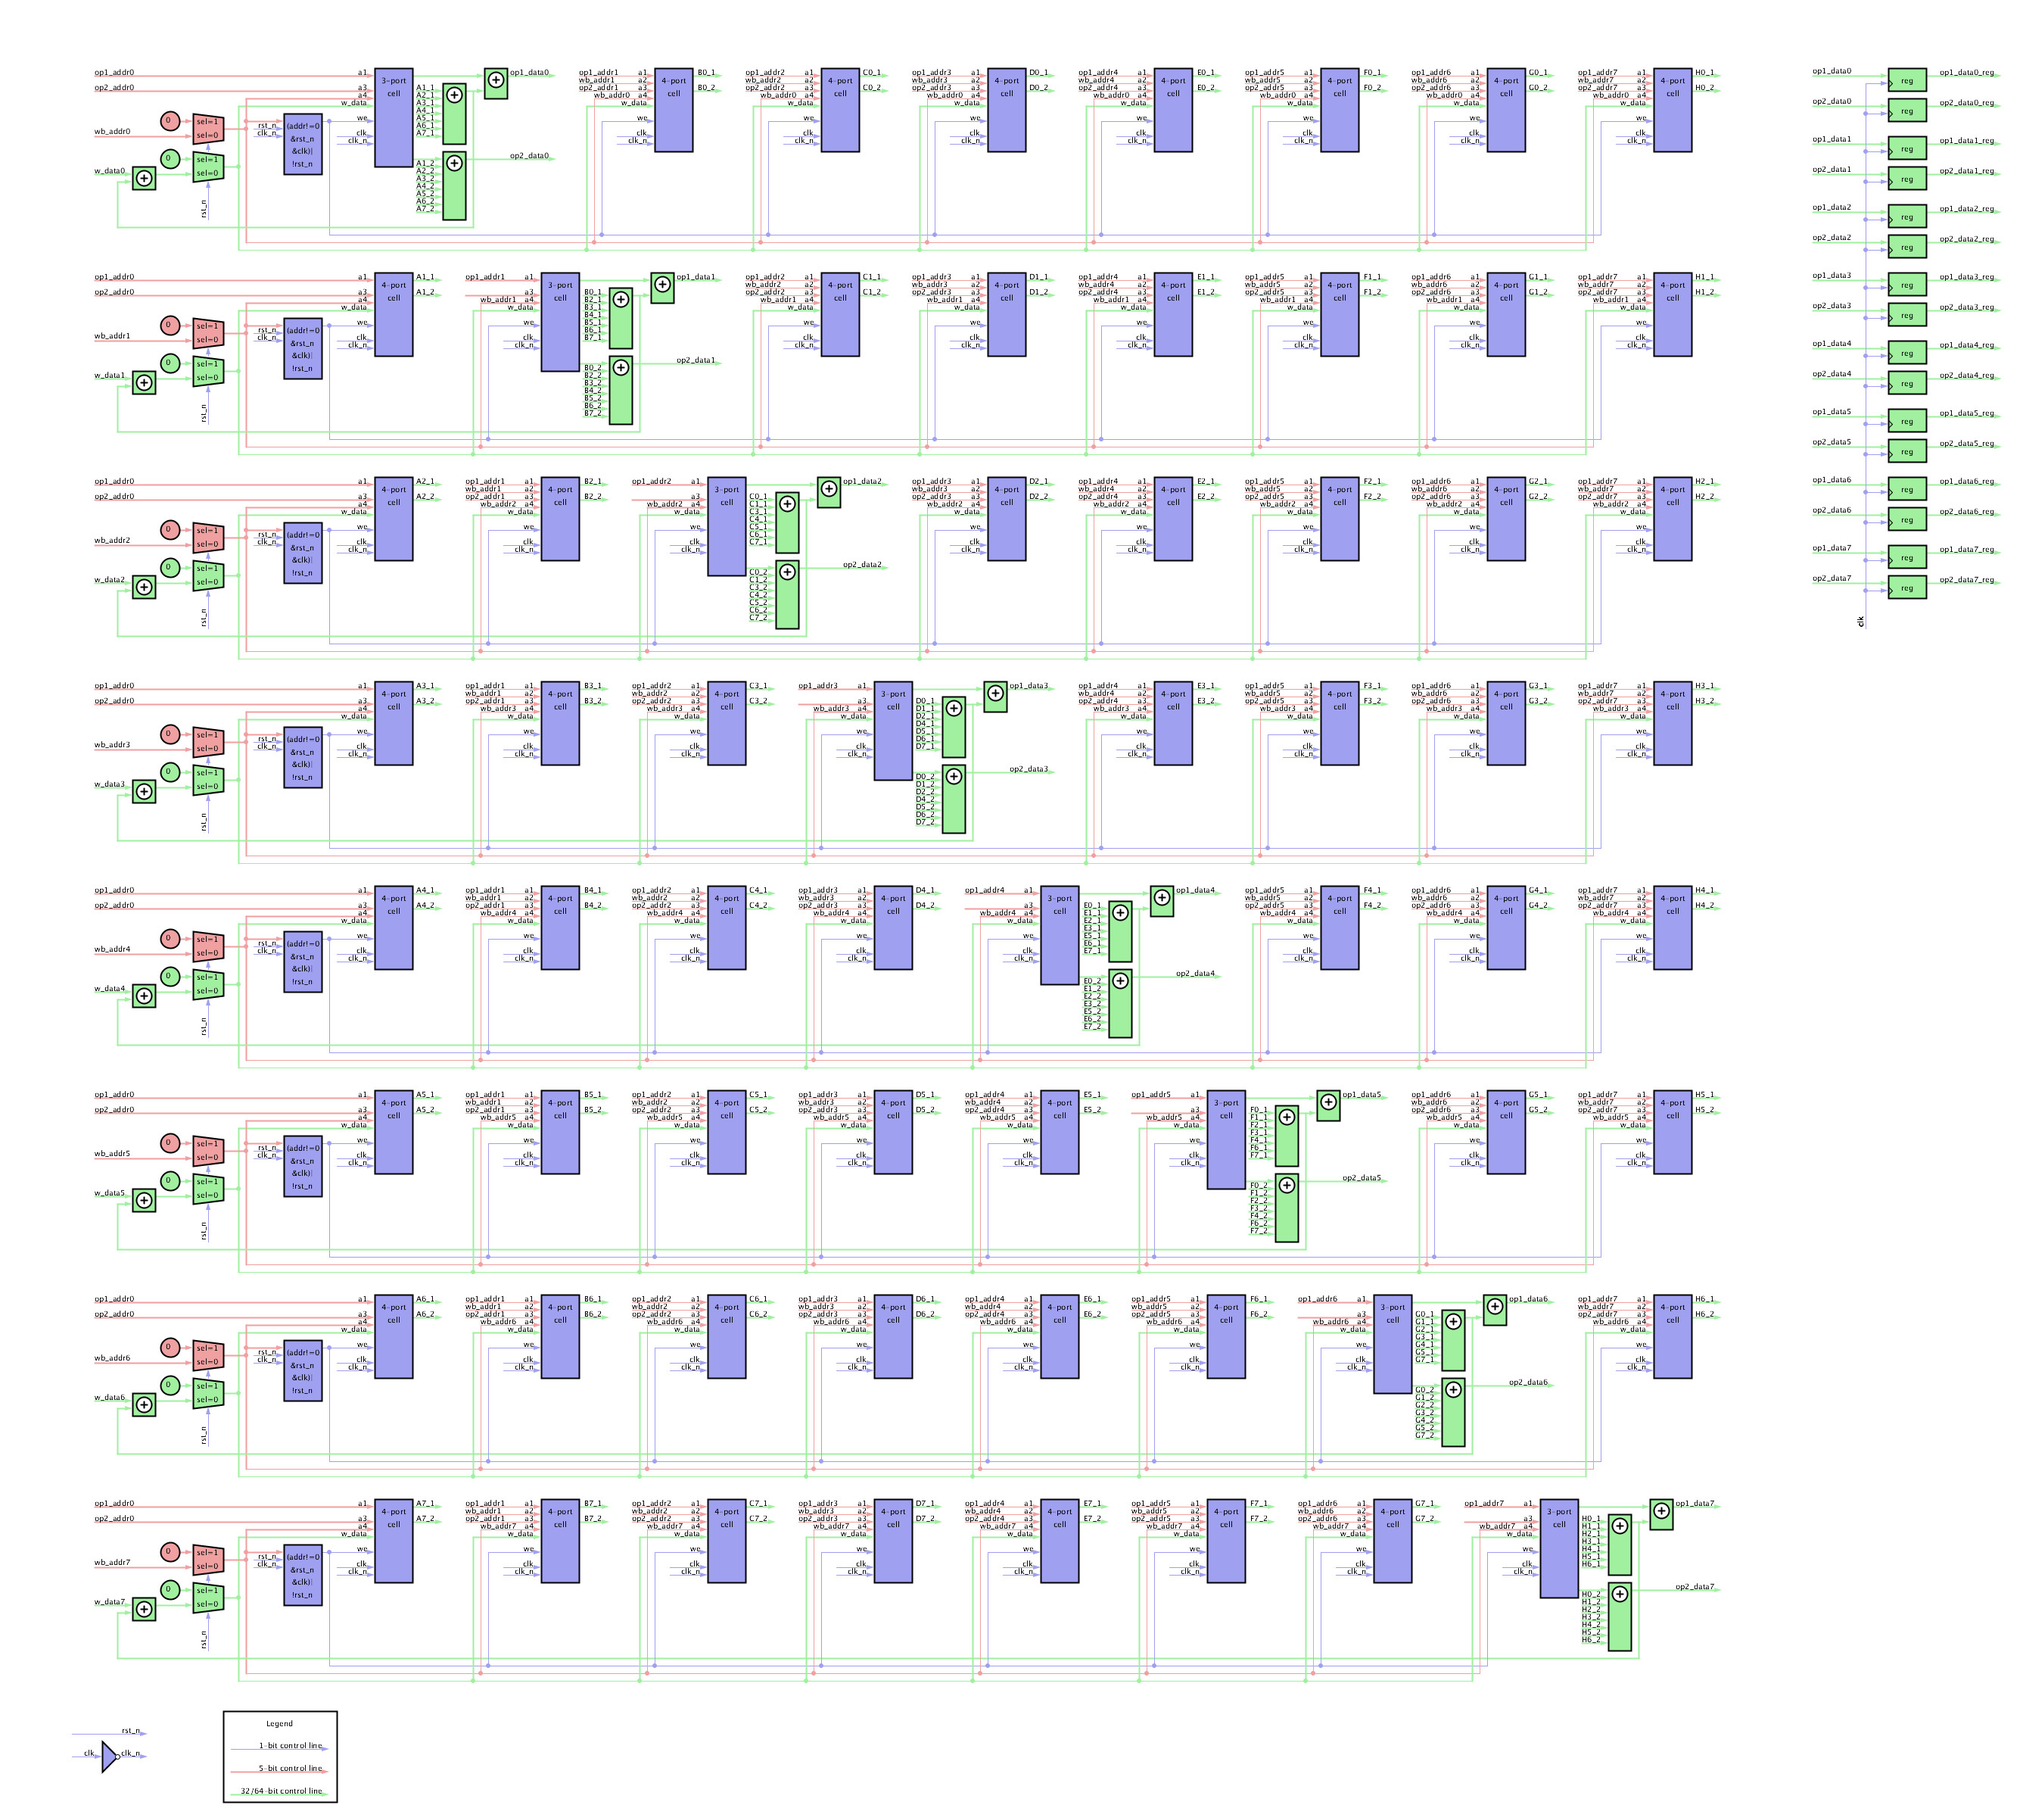
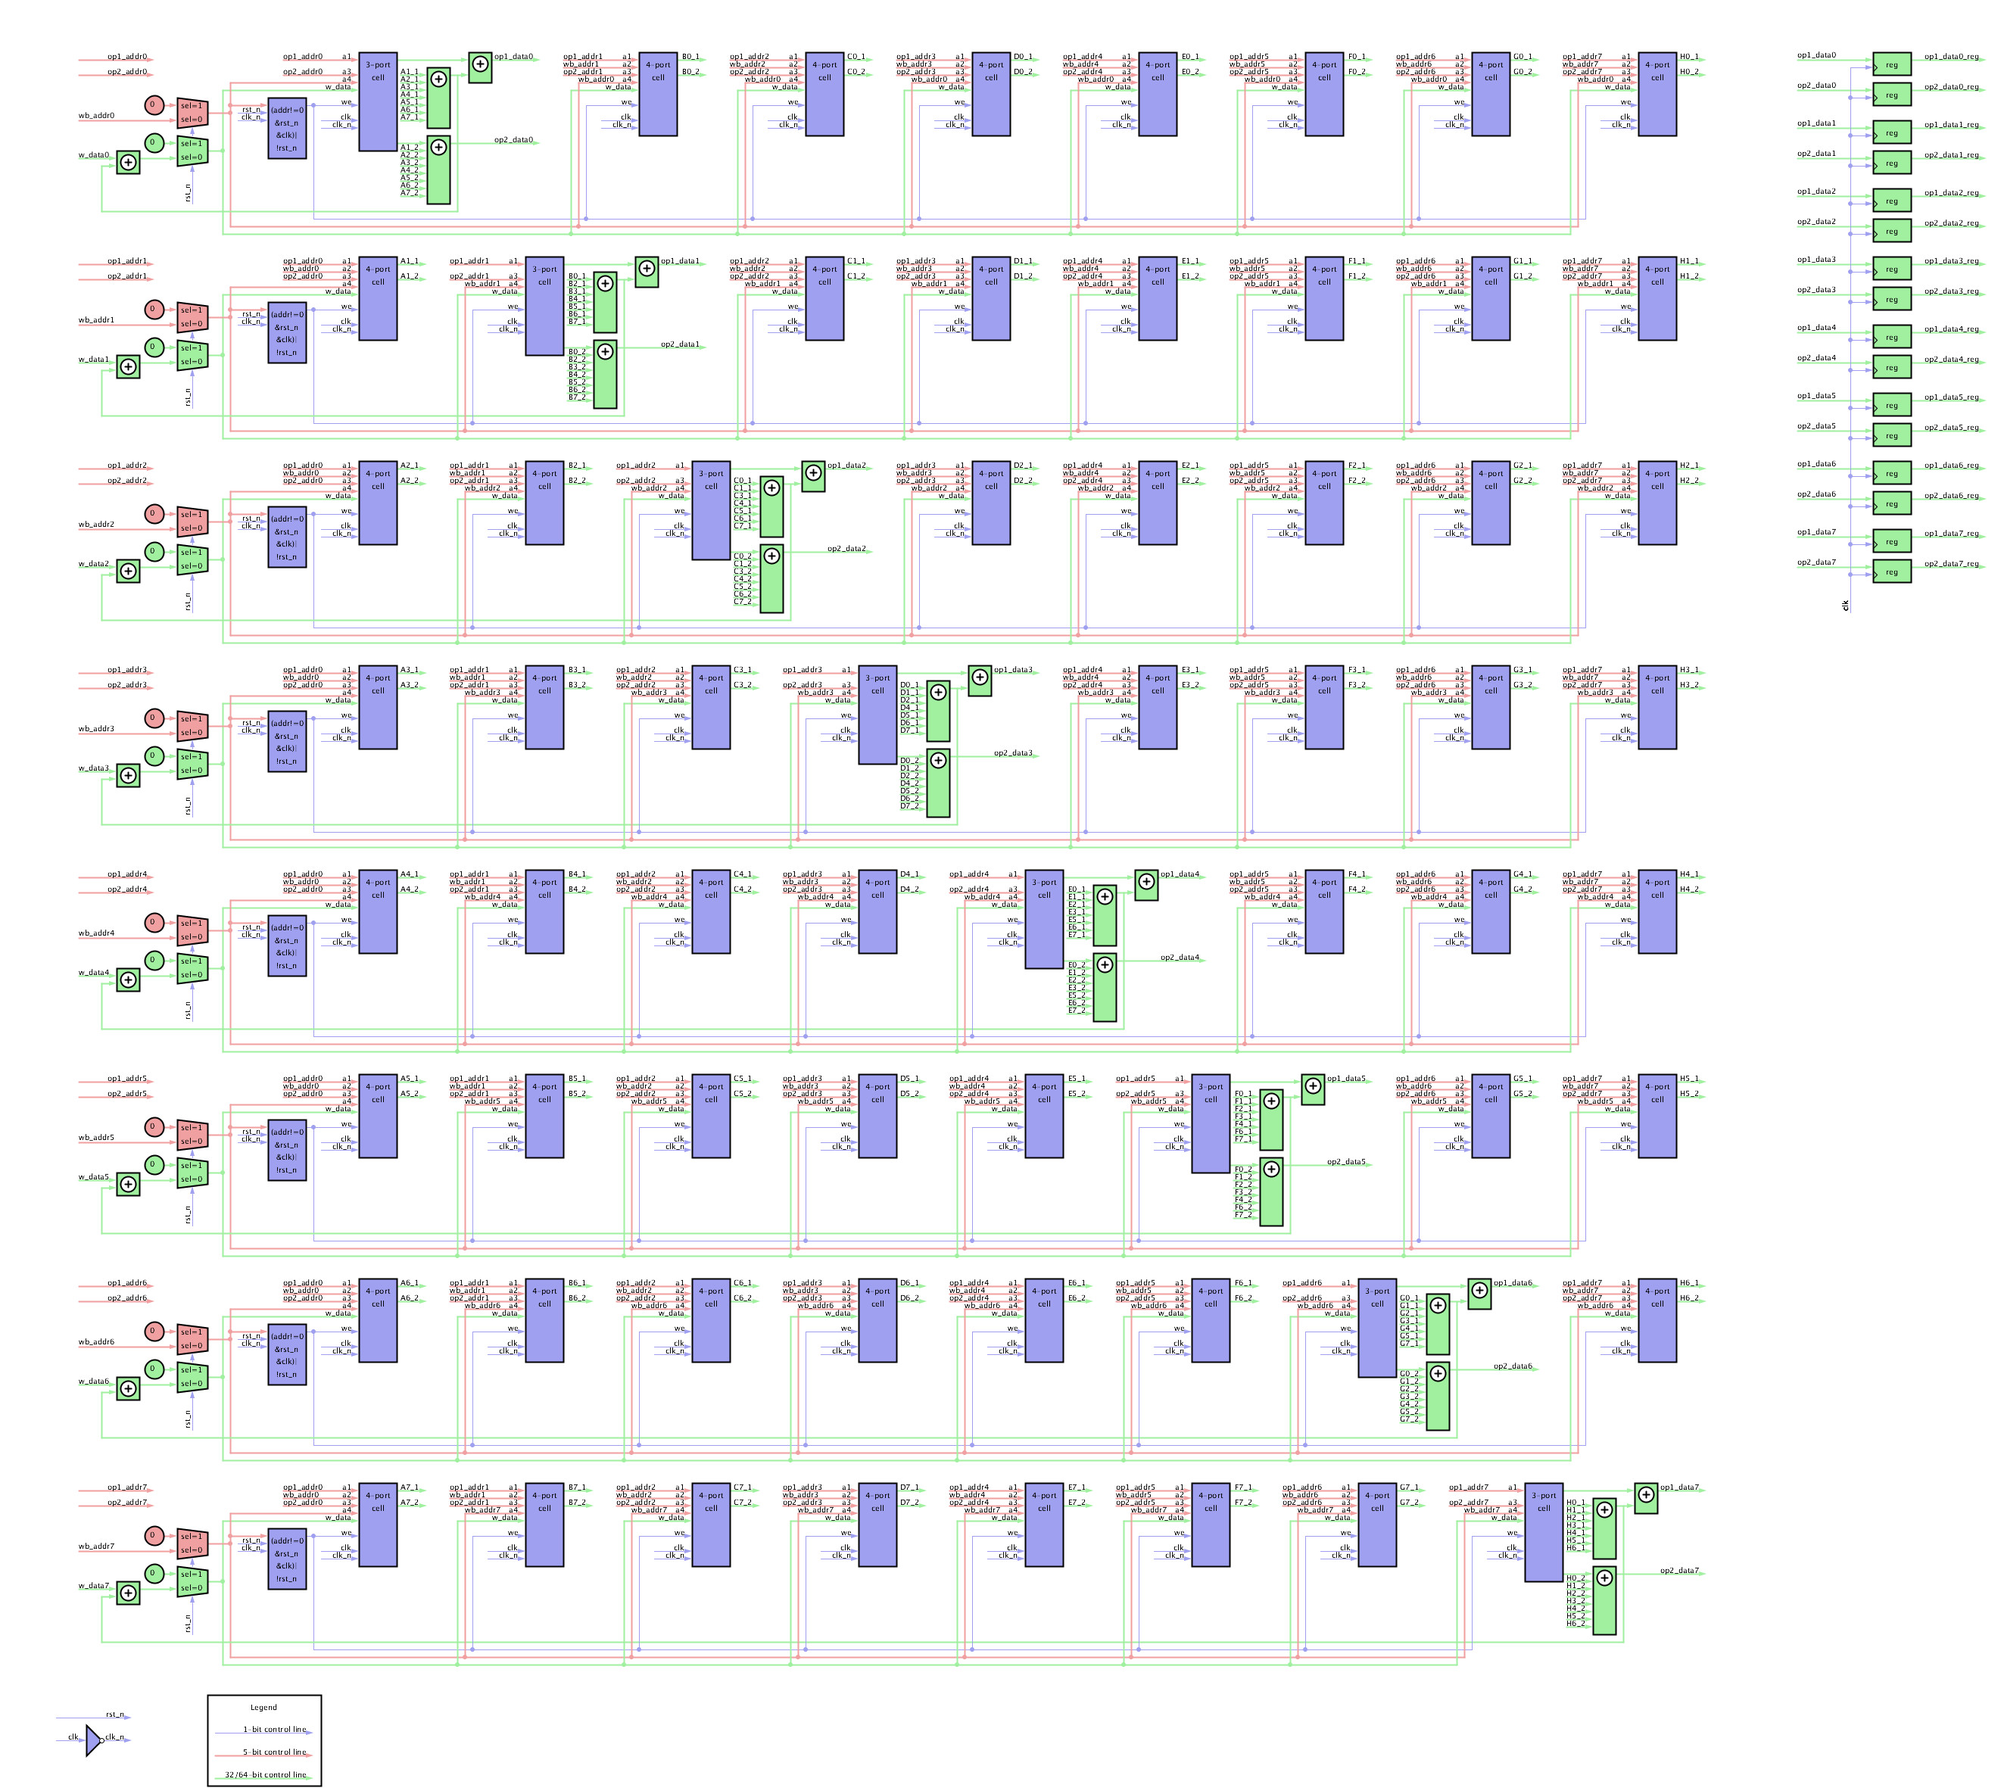
fixing a register diagram 1

Changed region(s): [[0.031, 0.0309, 0.8687, 1.0], [0.8997, 0.0309, 0.9928, 0.34], [0.031, 0.9581, 0.0621, 0.989]]

diff --git a/rv/registers/diagrams/registers-1/registers1.py b/rv/registers/diagrams/registers-1/registers1.py
@@ -116,23 +116,23 @@ class NodeTypeA(NodeType):
     a2_txt = "op2_addr{0}".format(col)
     wb_a_txt = "wb_addr{0}".format(col)
     wb_a2_txt = "wb_addr{0}".format(row)
-    Arrow(x, y + 10, x + 100, y + 10, 1, "a1", self.red_color)
+    Arrow(x, y + 10, x + 100, y + 10, 2, "a1", self.red_color)
     textAlign(LEFT, BOTTOM)
     text(a1_txt, x, y + 12)
-    Arrow(x, y + 20, x + 100, y + 20, 1, "a2", self.red_color)
+    Arrow(x, y + 20, x + 100, y + 20, 2, "a2", self.red_color)
     textAlign(LEFT, BOTTOM)
     text(wb_a_txt, x, y + 22)
-    Arrow(x, y + 30, x + 100, y + 30, 1, "a3", self.red_color)
+    Arrow(x, y + 30, x + 100, y + 30, 2, "a3", self.red_color)
     textAlign(LEFT, BOTTOM)
-    text(a2_txt, x, y + 32)      
-    Arrow(x + 20, y + 40, x + 100, y + 40, 1, "a4", self.red_color)
+    text(a2_txt, x, y + 32)
+    Arrow(x + 20, y + 40, x + 100, y + 40, 2, "a4", self.red_color)
     textAlign(LEFT, BOTTOM)
     text(wb_a2_txt, x + 20, y + 42)  
     Arrow(x + 10, y + 50, x + 100, y + 50, 2, "w_data", self.green_color)
     Arrow(x + 30, y + 70, x + 100, y + 70, 1, "we", self.blue_color)
     Arrow(x + 50, y + 90, x + 100, y + 90, 1, "clk", self.blue_color)
     Arrow(x + 50, y + 100, x + 100, y + 100, 1, "clk_n", self.blue_color)
-    strokeWeight(1)
+    strokeWeight(2)
     stroke(self.red_color)
     line(x + 20, y + 40, x + 20, y + 230)
     strokeWeight(2)
@@ -141,18 +141,20 @@ class NodeTypeA(NodeType):
     strokeWeight(1)
     stroke(self.blue_color)
     line(x + 30, y + 70, x + 30, y + 220)
-    
 #-----------------------------------------------------------------
 # Type B Node
 class NodeTypeB(NodeType):
   def __init__(self, x, y, col, row):
     NodeType.__init__(self)
     a1_txt = "op1_addr{0}".format(col)
+    a2_txt = "op2_addr{0}".format(col)
     wb_a2_txt = "wb_addr{0}".format(row)
     Arrow(x, y + 10, x + 100, y + 10, 2, "a1", self.red_color)
     textAlign(LEFT, BOTTOM)
     text(a1_txt, x, y + 12)
     Arrow(x, y + 30, x + 100, y + 30, 2, "a3", self.red_color)
+    textAlign(LEFT, BOTTOM)
+    text(a2_txt, x, y + 32)
     Arrow(x + 20, y + 40, x + 100, y + 40, 2, "a4", self.red_color)
     textAlign(LEFT, BOTTOM)
     text(wb_a2_txt, x + 20, y + 42)  
@@ -218,16 +220,21 @@ class NodeTypeC(NodeType):
 &clk)|
 !rst_n"""
     a1_txt = "op1_addr{0}".format(col)
+    wb_txt = "wb_addr{0}".format(col)
     a2_txt = "op2_addr{0}".format(col)
     self.wb_a_txt = "wb_addr{0}".format(col)
     self.wb_a2_txt = "wb_addr{0}".format(row)
     w_data_txt = "w_data{0}".format(row)
-    Arrow(x - 270, y + 10, x + 100, y + 10, 2, "a1", self.red_color)
+    Arrow(x, y + 10, x + 100, y + 10, 2, "a1", self.red_color)
     textAlign(LEFT, BOTTOM)
-    text(a1_txt, x - 270, y + 12)
-    Arrow(x - 270, y + 30, x + 100, y + 30, 2, "a3", self.red_color)
+    text(a1_txt, x, y + 12)
+    if row > 0:
+        Arrow(x, y + 20, x + 100, y + 20, 2, "a2", self.red_color)
+        textAlign(LEFT, BOTTOM)
+        text(wb_txt, x, y + 22)
+    Arrow(x, y + 30, x + 100, y + 30, 2, "a3", self.red_color)
     textAlign(LEFT, BOTTOM)
-    text(a2_txt, x - 270, y + 32)      
+    text(a2_txt, x, y + 32)
     Arrow(x - 70, y + 40, x + 100, y + 40, 2, "a4", self.red_color)
     Arrow(x - 80, y + 50, x + 100, y + 50, 2, "w_data", self.green_color)
     Arrow(x + 30, y + 70, x + 100, y + 70, 1, "we", self.blue_color)
@@ -285,7 +292,11 @@ class NodeTypeC(NodeType):
     strokeWeight(2)
     stroke(self.green_color)
     line(x - 240, y + 150, x - 240, y + 210)
-
+    #
+    #textAlign(LEFT, BOTTOM)
+    #text(wb_a2_txt, x + 20, y + 42)  
+    Arrow(x - 270, y + 10, x - 170, y + 10, 2, "op1_addr{0}".format(row), self.red_color)
+    Arrow(x - 270, y + 30, x - 170, y + 30, 2, "op2_addr{0}".format(row), self.red_color)
 #-----------------------------------------------------------------
 # Type DefaultOutput Node
 class DefaultOutput(NodeType):
@@ -308,10 +319,10 @@ class Connections(NodeType):
     strokeWeight(1)
     stroke(self.blue_color)
     line(x + 40, y + 220, x + 1720, y + 220)
-    strokeWeight(1)
+    strokeWeight(2)
     stroke(self.red_color)
     line(x - 70, y + 230, x + 1710, y + 230)
-    strokeWeight(1)
+    strokeWeight(2)
     stroke(self.green_color)
     line(x - 80, y + 240, x + 1700, y + 240)
 #-----------------------------------------------------------------
@@ -324,10 +335,10 @@ class Connections2(NodeType):
     strokeWeight(1)
     stroke(self.blue_color)
     line(x + 40, y + 220, x + 1570, y + 220)
-    strokeWeight(1)
+    strokeWeight(2)
     stroke(self.red_color)
     line(x - 70, y + 230, x + 1560, y + 230)
-    strokeWeight(1)
+    strokeWeight(2)
     stroke(self.green_color)
     line(x - 80, y + 240, x + 1550, y + 240)
 #-----------------------------------------------------------------
@@ -341,7 +352,7 @@ class ConnectionDots(NodeType):
 class XorConnection(NodeType):
   def __init__(self, x, y, col, row):
     NodeType.__init__(self) 
-    strokeWeight(1)
+    strokeWeight(2)
     stroke(self.red_color)
     line(x + 20, y + 40, x + 20, y + 230)
     strokeWeight(2)
